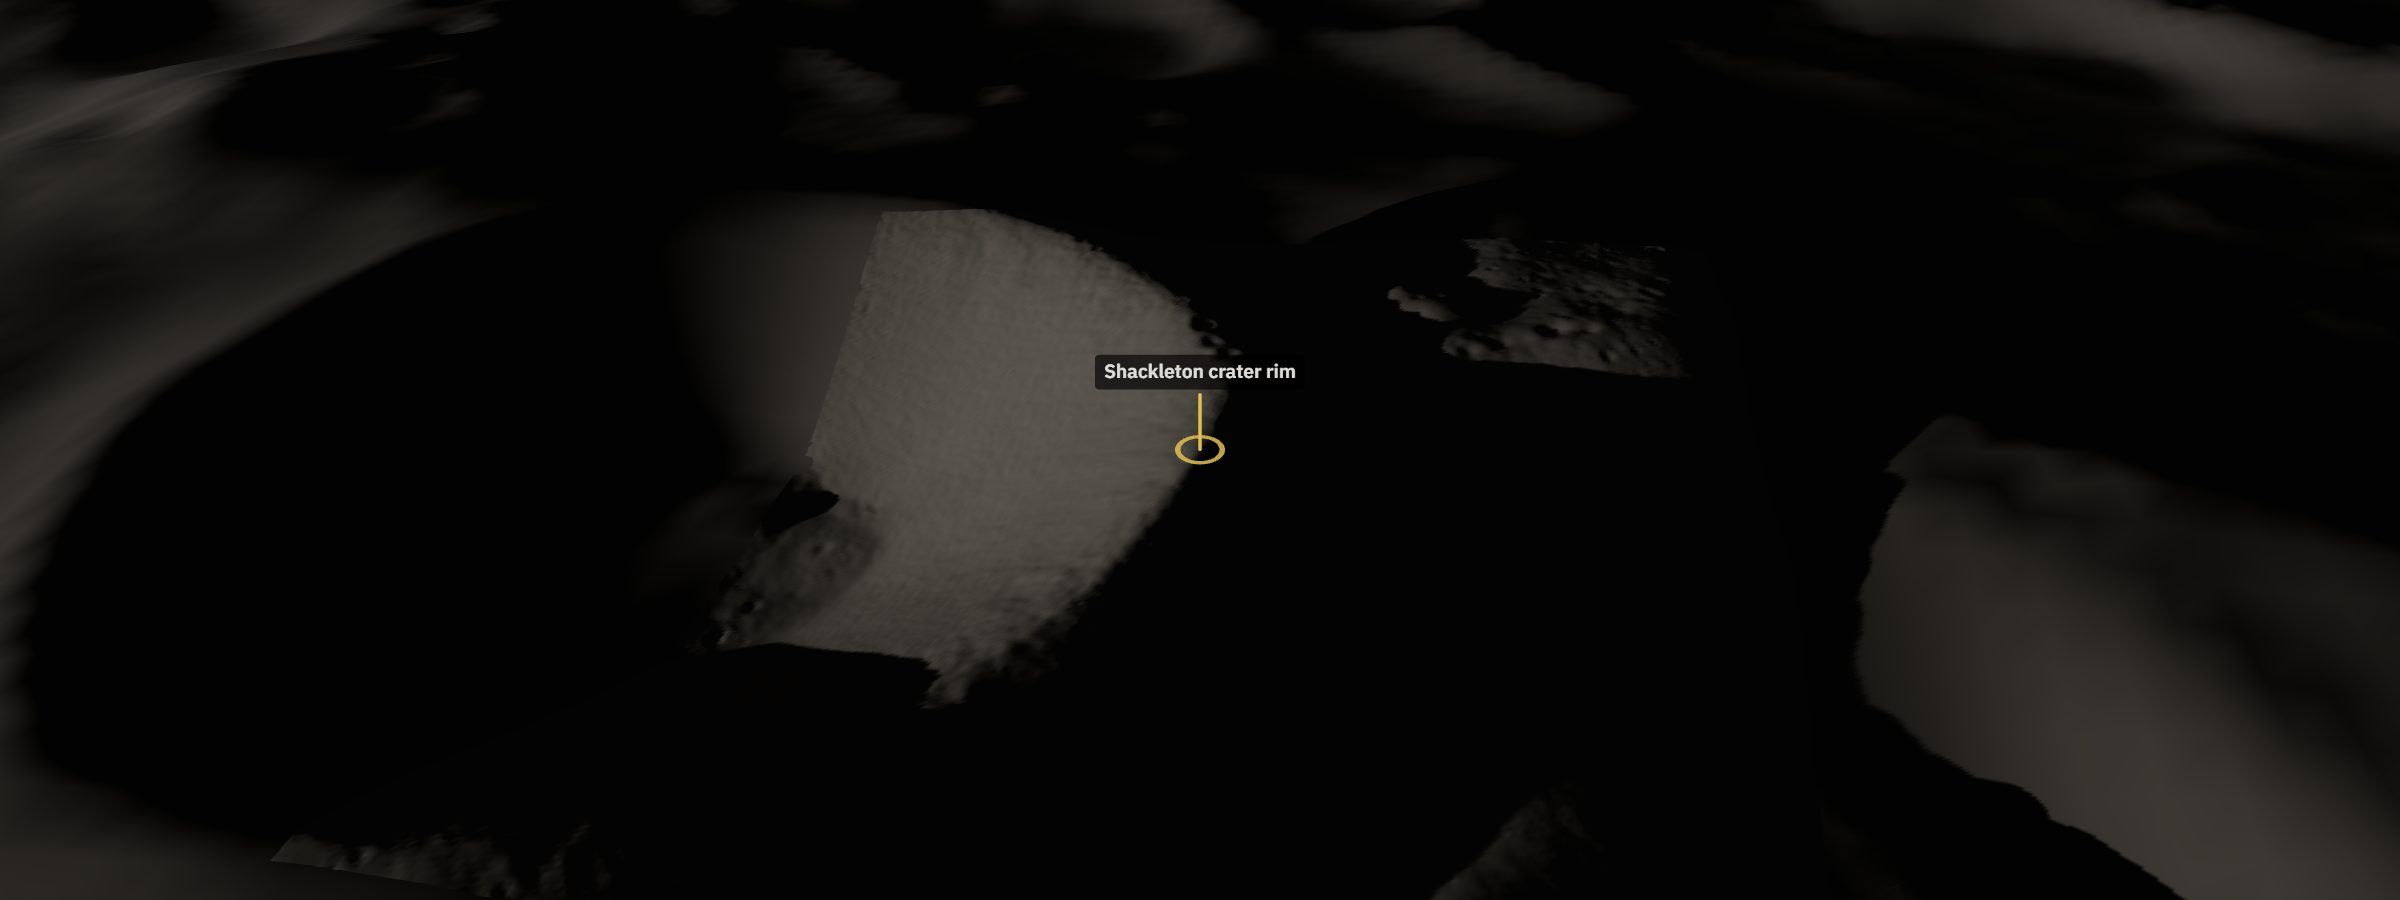
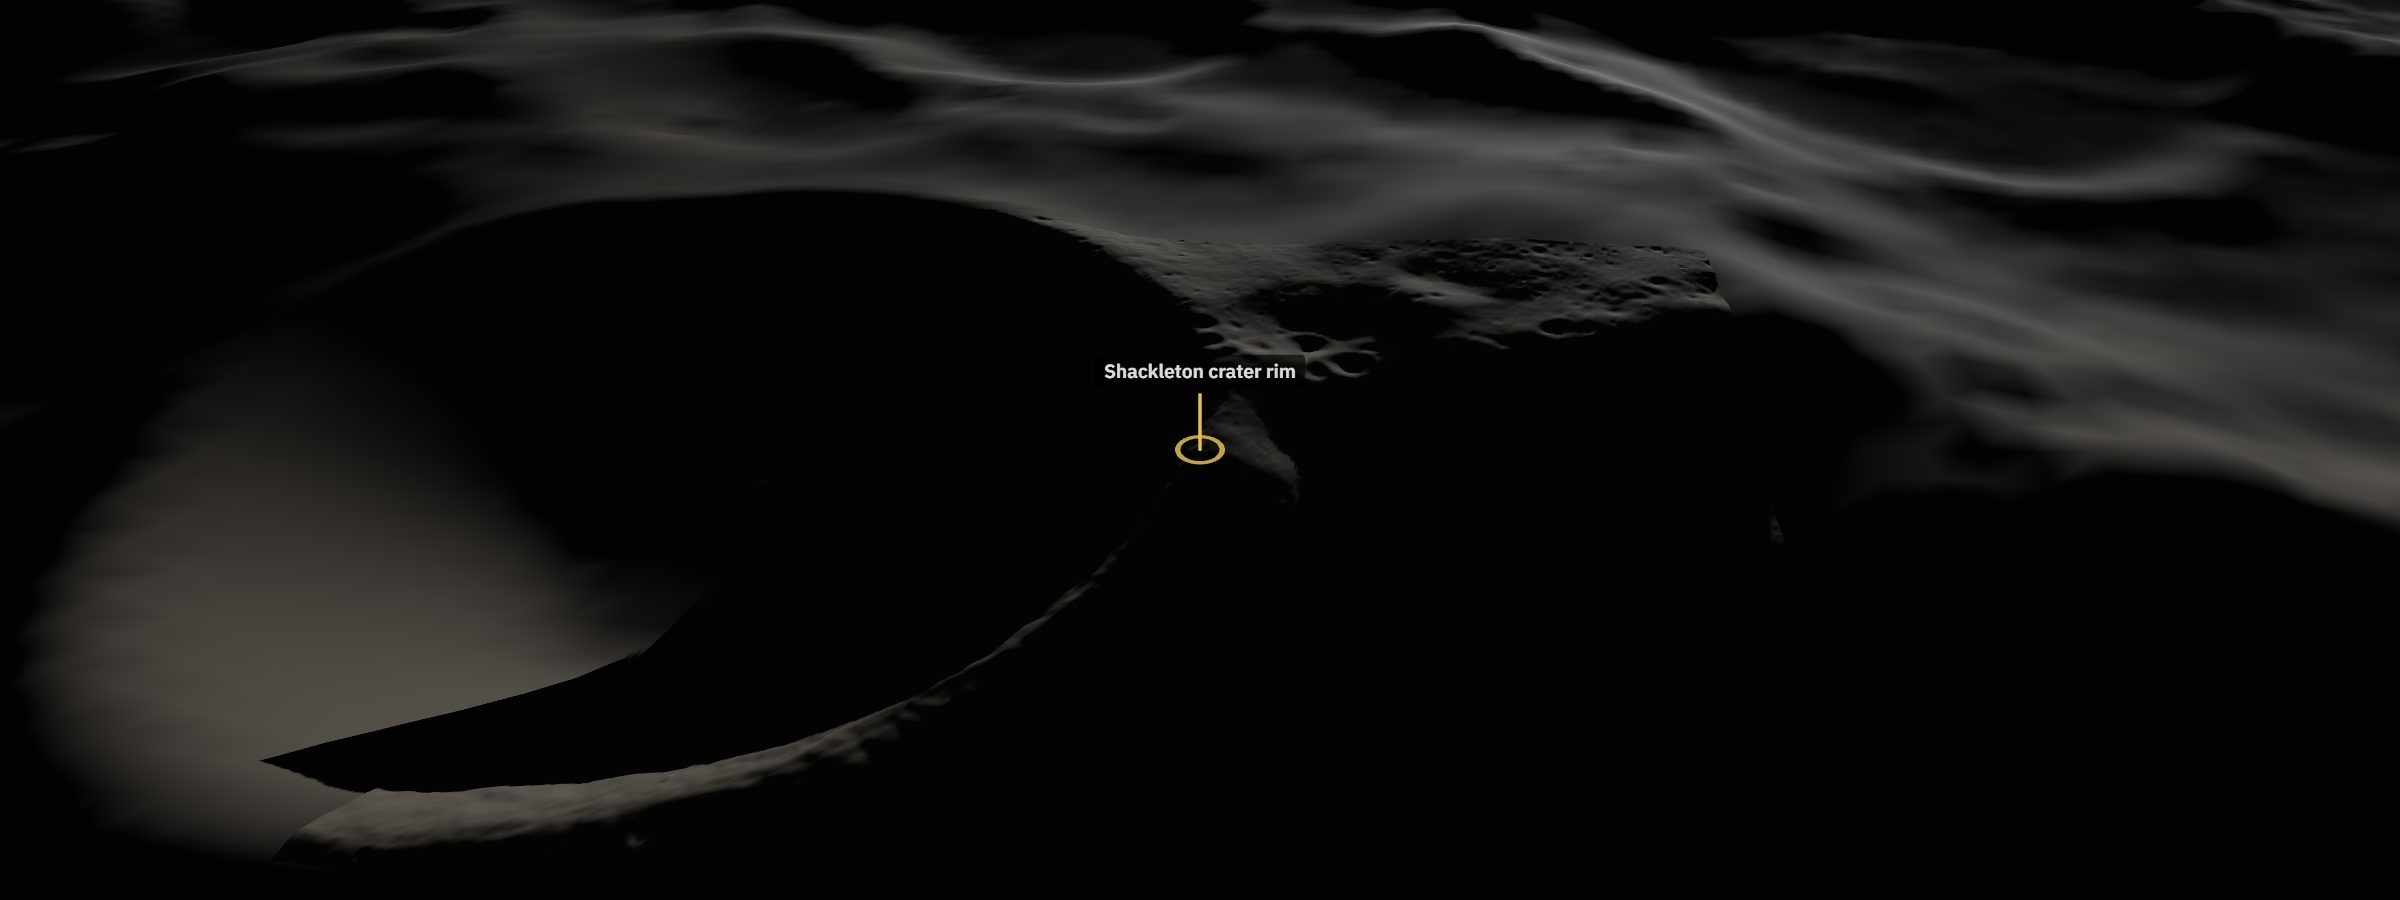
fix(web): pinned planner strip starts collapsed so the six tiles stay in view; monotonic hero frames
With the strip pinned at the column's foot, an open strip pushed the verdict
and tiles out of sight at 1360×900; it now starts collapsed (one header
line) and opens on click or when an answer arrives. The sky dome is 190 px.
The hero frames are three dates whose Sun azimuth advances monotonically
(59°, 343°, 267° from north), so the shadows sweep one way.

Claude-Session: https://claude.ai/code/session_01DGb1DJB5zQAbwV4m4aw62n

diff --git a/web/src/components/ExploreView.tsx b/web/src/components/ExploreView.tsx
@@ -240,7 +240,7 @@ export function ExploreView({ store = exploreStore }: { store?: StoreApi<Explore
           <aside className="flex flex-col gap-3 lg:tall:min-h-0">
             <div className="flex flex-col gap-3 lg:tall:min-h-0 lg:tall:flex-1 lg:tall:overflow-y-auto lg:tall:[scrollbar-width:thin]">
               <section aria-label="Sky dome" className="glass rounded-md p-3">
-                <div className="mx-auto max-w-[220px]">
+                <div className="mx-auto max-w-[190px]">
                   <SkyDome mask={s.mask} series={s.series} cursor={s.cursorHour} />
                 </div>
                 <p className="mt-1 text-center text-xs text-ink-2">Outer half of the disc magnifies −10° to +10°.</p>
@@ -253,7 +253,7 @@ export function ExploreView({ store = exploreStore }: { store?: StoreApi<Explore
               </section>
             </div>
             <div className="shrink-0 lg:tall:max-h-[45%] lg:tall:overflow-y-auto lg:tall:[scrollbar-width:thin]">
-              <PlannerChat store={store} defaultOpen />
+              <PlannerChat store={store} />
             </div>
           </aside>
         </div>
